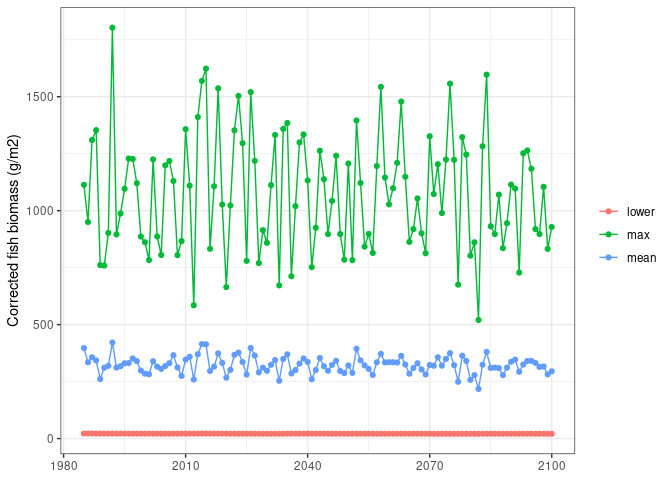
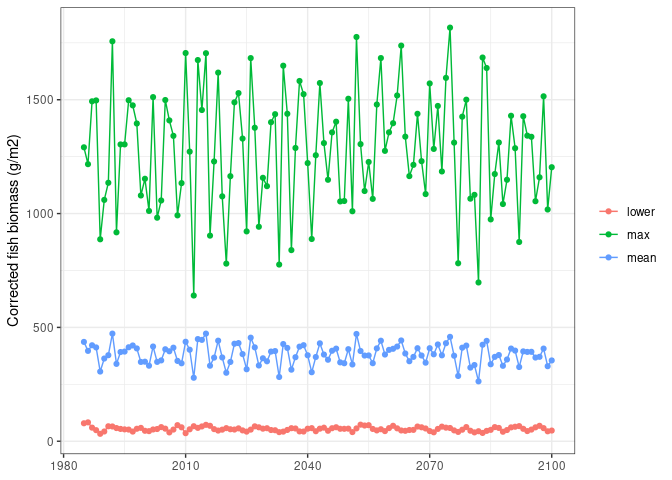
recalculating biomass with divided Kiribati

diff --git a/Scripts/04_Biomass_projections_SouthPacific.md b/Scripts/04_Biomass_projections_SouthPacific.md
@@ -12,7 +12,7 @@ Beth Fulton and Denisse Fierro Arcos
   - <a href="#loading-relevant-libraries"
     id="toc-loading-relevant-libraries">Loading relevant libraries</a>
   - <a href="#models-used-to-generate-biomass-projections-for-picts"
-    id="toc-models-used-to-generate-biomass-projections-for-picts">models
+    id="toc-models-used-to-generate-biomass-projections-for-picts">Models
     used to generate biomass projections for PICTs</a>
   - <a href="#1-biomass-projections-from-reefmod-data"
     id="toc-1-biomass-projections-from-reefmod-data">1. Biomass projections
@@ -285,7 +285,7 @@ above and continue to run all other code chunks in this notebook.
 bio_picts <- read_csv("../Outputs/average_yearly_means_picts_1985-2100.csv")
 ```
 
-    ## Rows: 46460 Columns: 6
+    ## Rows: 40550 Columns: 6
     ## ── Column specification ────────────────────────────────────────────────────────
     ## Delimiter: ","
     ## chr (3): mem, esm, scenario
@@ -323,6 +323,14 @@ gbr_bio <- bio_picts |>
             fishmip_upper_bio = max(mean_annual_bio, na.rm = T))
 ```
 
+    ## Warning: There were 2 warnings in `summarise()`.
+    ## The first warning was:
+    ## ℹ In argument: `fishmip_lower_bio = min(mean_annual_bio, na.rm = T)`.
+    ## ℹ In group 203: `scenario = NA`, `year = NA`.
+    ## Caused by warning in `min()`:
+    ## ! no non-missing arguments to min; returning Inf
+    ## ℹ Run `dplyr::last_dplyr_warnings()` to see the 1 remaining warning.
+
     ## `summarise()` has grouped output by 'scenario'. You can override using the
     ## `.groups` argument.
 
@@ -335,12 +343,12 @@ head(gbr_bio)
     ## # Groups:   scenario [1]
     ##   scenario  year fishmip_lower_bio fishmip_mean_bio fishmip_upper_bio
     ##   <chr>    <dbl>             <dbl>            <dbl>             <dbl>
-    ## 1 SSP1-2.6  2015             0.688             4.57              13.9
-    ## 2 SSP1-2.6  2016             0.583             4.81              13.7
-    ## 3 SSP1-2.6  2017             0.559             4.67              14.9
-    ## 4 SSP1-2.6  2018             0.600             5.06              19.9
-    ## 5 SSP1-2.6  2019             0.668             4.47              14.2
-    ## 6 SSP1-2.6  2020             0.667             4.78              14.9
+    ## 1 SSP1-2.6  2015             0.643             4.62              15.7
+    ## 2 SSP1-2.6  2016             0.556             4.86              16.5
+    ## 3 SSP1-2.6  2017             0.560             4.49              13.5
+    ## 4 SSP1-2.6  2018             0.560             4.44              13.1
+    ## 5 SSP1-2.6  2019             0.630             4.43              13.8
+    ## 6 SSP1-2.6  2020             0.637             4.69              14.6
 
 ### Comparing ensemble means to REEFMOD biomass estimates
 
@@ -366,12 +374,12 @@ head(fishmip_biases)
     ## # Groups:   scenario [1]
     ##   scenario  year fishmip_lower_bio fishmip_mean_bio fishmip_upper_bio
     ##   <chr>    <dbl>             <dbl>            <dbl>             <dbl>
-    ## 1 SSP1-2.6  2024             0.614             4.60              13.8
-    ## 2 SSP1-2.6  2025             0.596             5.25              17.2
-    ## 3 SSP1-2.6  2026             0.762             4.55              15.3
-    ## 4 SSP1-2.6  2027             0.687             5.00              17.0
-    ## 5 SSP1-2.6  2028             0.706             5.03              18.4
-    ## 6 SSP1-2.6  2029             0.723             5.26              18.7
+    ## 1 SSP1-2.6  2024             0.593             4.73              16.2
+    ## 2 SSP1-2.6  2025             0.565             4.98              16.1
+    ## 3 SSP1-2.6  2026             0.699             4.30              13.3
+    ## 4 SSP1-2.6  2027             0.648             4.64              15.1
+    ## 5 SSP1-2.6  2028             0.648             4.59              13.2
+    ## 6 SSP1-2.6  2029             0.678             4.83              15.0
     ## # ℹ 8 more variables: fish_biomass <dbl>, reefmod_lower_biomass <dbl>,
     ## #   reefmod_median_biomass <dbl>, reefmod_upper_biomass <dbl>,
     ## #   mean_bias_fish_bio_fishmip <dbl>, lower_bias_reefmod_fishmip <dbl>,
@@ -390,12 +398,12 @@ minimum, mean, median, and maximum.
     ## # A tibble: 6 × 6
     ##   scenario stat   mean_bias_fish_bio_fishmip lower_bias_reefmod_fishmip
     ##   <chr>    <chr>                       <dbl>                      <dbl>
-    ## 1 SSP1-2.6 min                          27.9                       25.1
-    ## 2 SSP1-2.6 mean                         35.9                       40.9
-    ## 3 SSP1-2.6 median                       36.0                       38.7
-    ## 4 SSP1-2.6 max                          46.0                       63.0
-    ## 5 SSP5-8.5 min                          23.8                       16.7
-    ## 6 SSP5-8.5 mean                         32.2                       28.0
+    ## 1 SSP1-2.6 min                          29.4                       26.6
+    ## 2 SSP1-2.6 mean                         37.8                       43.6
+    ## 3 SSP1-2.6 median                       37.7                       41.7
+    ## 4 SSP1-2.6 max                          48.0                       67.3
+    ## 5 SSP5-8.5 min                          29.5                       18.0
+    ## 6 SSP5-8.5 mean                         35.9                       30.7
     ## # ℹ 2 more variables: mean_bias_reefmod_fishmip <dbl>,
     ## #   upper_bias_reefmod_fishmip <dbl>
 
@@ -440,12 +448,12 @@ head(ensemble_bio)
     ## # Groups:   mask, scenario [1]
     ##    mask scenario  year stat  mean_annual_bio
     ##   <dbl> <chr>    <dbl> <chr>           <dbl>
-    ## 1  8312 SSP1-2.6  2015 lower           0.850
-    ## 2  8312 SSP1-2.6  2015 mean            4.10 
-    ## 3  8312 SSP1-2.6  2015 max             7.80 
-    ## 4  8312 SSP1-2.6  2016 lower           0.780
-    ## 5  8312 SSP1-2.6  2016 mean            4.55 
-    ## 6  8312 SSP1-2.6  2016 max             7.96
+    ## 1  8312 SSP1-2.6  2015 lower           0.872
+    ## 2  8312 SSP1-2.6  2015 mean            4.36 
+    ## 3  8312 SSP1-2.6  2015 max             8.05 
+    ## 4  8312 SSP1-2.6  2016 lower           0.804
+    ## 5  8312 SSP1-2.6  2016 mean            4.78 
+    ## 6  8312 SSP1-2.6  2016 max             8.27
 
 Note that the mean bias values for scenario `SSP1-2.6` calculated in
 step 3 will be used to calculated the corrected biomass for the
@@ -488,12 +496,12 @@ head(bias_corr_biomass)
     ## # Groups:   mask, scenario [1]
     ##    mask scenario  year stat  bio_corr_nash bio_corr_reefmod_low
     ##   <dbl> <chr>    <dbl> <chr>         <dbl>                <dbl>
-    ## 1  8312 SSP1-2.6  2015 lower          30.5                 34.8
-    ## 2  8312 SSP1-2.6  2015 mean          147.                 168. 
-    ## 3  8312 SSP1-2.6  2015 max           280.                 319. 
-    ## 4  8312 SSP1-2.6  2016 lower          28.0                 31.9
-    ## 5  8312 SSP1-2.6  2016 mean          163.                 186. 
-    ## 6  8312 SSP1-2.6  2016 max           286.                 326. 
+    ## 1  8312 SSP1-2.6  2015 lower          33.0                 38.0
+    ## 2  8312 SSP1-2.6  2015 mean          165.                 190. 
+    ## 3  8312 SSP1-2.6  2015 max           304.                 351. 
+    ## 4  8312 SSP1-2.6  2016 lower          30.4                 35.1
+    ## 5  8312 SSP1-2.6  2016 mean          181.                 209. 
+    ## 6  8312 SSP1-2.6  2016 max           313.                 361. 
     ## # ℹ 2 more variables: bio_corr_reefmod_mean <dbl>, bio_corr_reefmod_upper <dbl>
 
 ### Plotting corrected biomass for a single PICTs
@@ -614,7 +622,7 @@ the results.
 
 ``` r
 biomass_ssp245 |> 
-  filter(mask < 8316) |> 
+  filter(mask %in% c(8318, 8316, 8317, 8315, 8324, 8314)) |> 
   #We will only plot the median values
   select(mask, year, ends_with("median")) |> 
   #Reformat data to make plotting easier
@@ -622,7 +630,7 @@ biomass_ssp245 |>
   #Plotting
   ggplot(aes(x = year, y = biomass, colour = scenario, linetype = scenario))+
   geom_line()+
-  facet_wrap(~mask)+
+  facet_wrap(~mask, scales = "free_y")+
   theme_bw()
 ```
 
